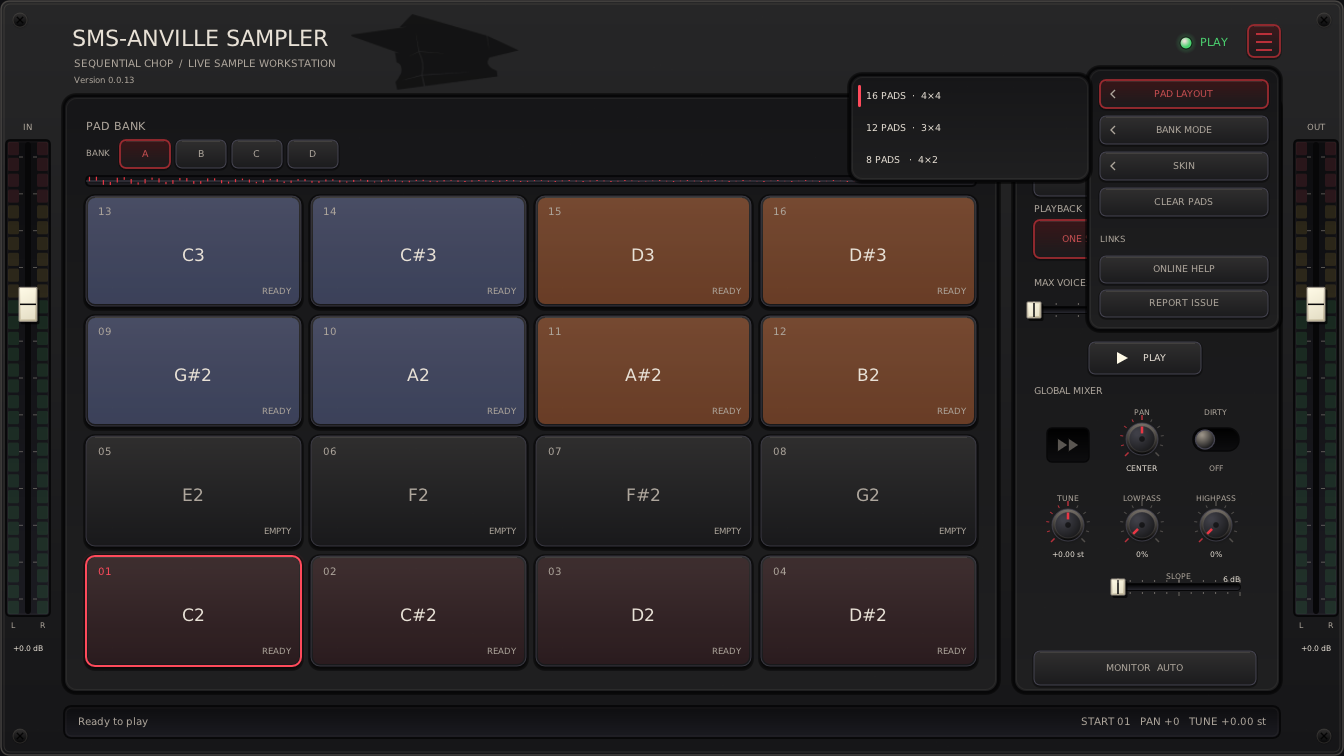
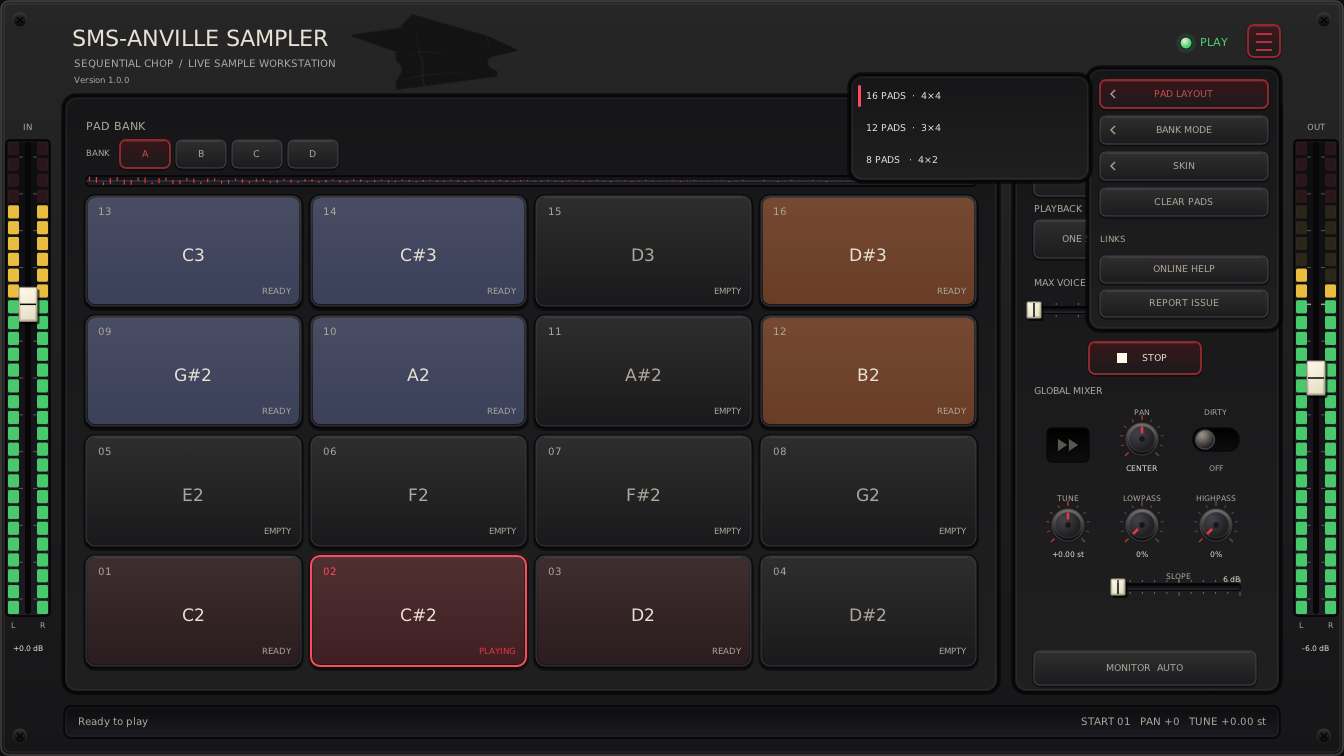
Prepare 1.0.0 release

diff --git a/Docs/AI/DOC-IMAGES.md b/Docs/AI/DOC-IMAGES.md
@@ -8,9 +8,9 @@ its header before capturing.
 ## Capture inputs
 
 Use the 4×4 pad layout and the same window size for every capture, normally
-1344 × 756. Populate pads with related slices. Use colours sparingly to mark
-two neighbouring groups, such as blue and orange 2×2 blocks; leave other
-pads untinted. Select an untinted pad in Main View so selection does not obscure
+1344 × 756. Load related slices into at least the first three pads.
+Use a blue 2×2 group (pads 9, 10, 13, 14) and an orange 1×2 group
+(pads 12, 16); leave other pads untinted. Select an untinted pad in Main View so selection does not obscure
 a group colour. Show playback in Main View, a shaped envelope and edited region
 in Sample Editor, and meaningful proposed boundaries in the cut views.
 
@@ -41,7 +41,8 @@ For `hamburger-menu.png`, leave the hamburger and PAD LAYOUT submenu open so
 all top-level actions and layout choices, including CLEAR PADS, are visible;
 keep the pointer away from other menu rows. For `knob-context-menu.png`, open
 TUNE's Settings menu and its Value Mode submenu, with all three modes visible.
-These menu captures are exceptions to closing menus before capture.
+Crop the knob capture around both menus, retaining all labels. These menu
+captures are exceptions to closing menus before capture.
 
 Both READMEs share the Main View captures. The plugin README also shows each
 editor in all four appearances. Markdown tables and linked HTML `img` elements
@@ -51,8 +52,8 @@ The Skins section uses three equally sized, separate Main View images. Every
 image links to its original PNG; do not bake layouts, labels or scaling into assets.
 
 The [additional-skins gallery](../../SMS-AnvilleSampler/additional-skins/README.md)
-uses separate initial-state captures: empty pads, the default 4×4 layout, and
-unchanged factory controls. Capture every available additional skin at 1344 × 756
+uses the same loaded pads, colour groups and playback as Main View.
+Capture every available additional skin at 1344 × 756
 and store the PNGs directly in `SMS-AnvilleSampler/additional-skins/`, named
 after their skin folders (for example, `RedBlackSMSTag.png`), outside the
 downloadable skin folders. Each preview links to its full-resolution image

diff --git a/SMS-AnvilleSampler/README.md b/SMS-AnvilleSampler/README.md
@@ -1,9 +1,5 @@
 # SMS-Anville Sampler
 
-> [!WARNING]
->
-> **BETA - PLEASE WAIT FOR v1.0.0 BEFORE USING**
-
 _Stereo chopping sampler that focuses on simplicity, usability, and professional-grade realtime engine._
 
 Available in [Releases](https://github.com/sirsipe/SMS-Plugins/releases):
@@ -17,7 +13,7 @@ Available in [Releases](https://github.com/sirsipe/SMS-Plugins/releases):
 Should work in any VST3 supporting DAW, but especially tested in:
 
 * Linux: **REAPER**, **Ardour**, **Carla**.
-* Windows: **Cubase**.
+* Windows: **REAPER**, **Cubase**.
 
 
 
@@ -33,7 +29,7 @@ Should work in any VST3 supporting DAW, but especially tested in:
 | --- | --- | --- |
 | [<img src="Docs/main-view-finnish-dream.png" width="224" alt="Finnish Dream Main View">](Docs/main-view-finnish-dream.png) | [<img src="Docs/main-view-looks-like-wu.png" width="224" alt="Looks like Wu Main View">](Docs/main-view-looks-like-wu.png) | [<img src="Docs/main-view-white-cadillac-vinyl.png" width="224" alt="White Cadillac Vinyl Main View">](Docs/main-view-white-cadillac-vinyl.png) |
 
-Captures: v0.0.13, except where noted.
+Plugin captures: v1.0.0.
 
 
 
@@ -134,7 +130,7 @@ Right-click global **PAN**, **TUNE**, **LOWPASS**, **HIGHPASS**, or the **OUT**
 fader to open **Settings: <control>**. These settings belong to that control;
 IN and pad controls retain their usual behavior.
 
-[<img src="Docs/knob-context-menu.png" width="672" alt="TUNE settings with the Value Mode submenu open">](Docs/knob-context-menu.png)
+[<img src="Docs/knob-context-menu.png" width="400" alt="TUNE settings with the Value Mode submenu open">](Docs/knob-context-menu.png)
 
 **Value Mode** chooses how incoming positions are interpreted:
 
@@ -194,8 +190,6 @@ Right-click a middle pad for **Adjust cut points**. **Exit**, Escape, and the
 previous/next arrows save pending cuts automatically. **Cancel Changes** restores
 the loaded cuts without leaving; it is enabled only when cuts change.
 See the [cut-point guide](Docs/CHOP-EDITOR.md).
-
-Adjust Cut Points captures: v0.9.0-beta.1.
 
 [<img src="Docs/adjust-cut-points.png" width="672" alt="Default">](Docs/adjust-cut-points.png)
 

diff --git a/SMS-AnvilleSampler/additional-skins/README.md b/SMS-AnvilleSampler/additional-skins/README.md
@@ -11,7 +11,7 @@ These optional skins supplement the three bundled choices. Open this page from
 
 [**Download** using https://download-directory.github.io/](https://download-directory.github.io/?url=https://github.com/sirsipe/SMS-Plugins/tree/main/SMS-AnvilleSampler/additional-skins/RedBlackSMSTag)
 
-[![Red Black SMS Tag — initial plugin state](RedBlackSMSTag.png)](RedBlackSMSTag.png)
+[![Red Black SMS Tag — v1.0.0 playback](RedBlackSMSTag.png)](RedBlackSMSTag.png)
 
 > Author: [@ManoloAnville](https://github.com/ManoloAnville)
 
@@ -21,7 +21,7 @@ These optional skins supplement the three bundled choices. Open this page from
 
 [**Download** using https://download-directory.github.io/](https://download-directory.github.io/?url=https://github.com/sirsipe/SMS-Plugins/tree/main/SMS-AnvilleSampler/additional-skins/XtremeSMSMetall)
 
-[![Xtreme SMS Metall — initial plugin state](XtremeSMSMetall.png)](XtremeSMSMetall.png)
+[![Xtreme SMS Metall — v1.0.0 playback](XtremeSMSMetall.png)](XtremeSMSMetall.png)
 
 > Author: [@ManoloAnville](https://github.com/ManoloAnville)
 

diff --git a/README.md b/README.md
@@ -1,11 +1,6 @@
 # SudoMetalStudio Plugins
 
-> [!WARNING]
-> 
-> **BETA - PLEASE WAIT FOR v1.0.0 BEFORE USING**
-
 _Professionally developed audio plugins for **Linux** (VST3/LV2) and **Windows** (VST3)._
-
 
 ## Plugins
 
